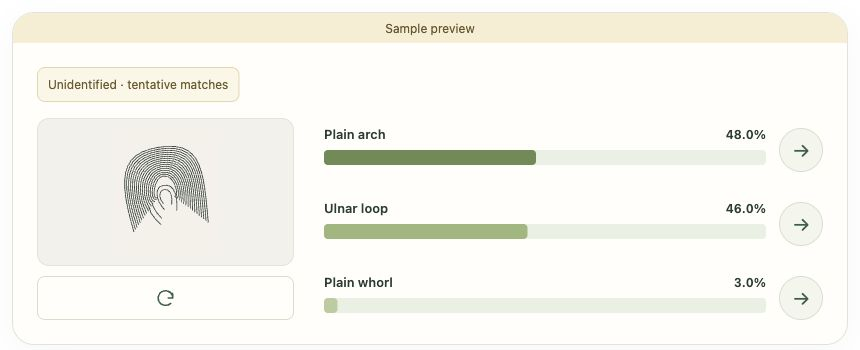
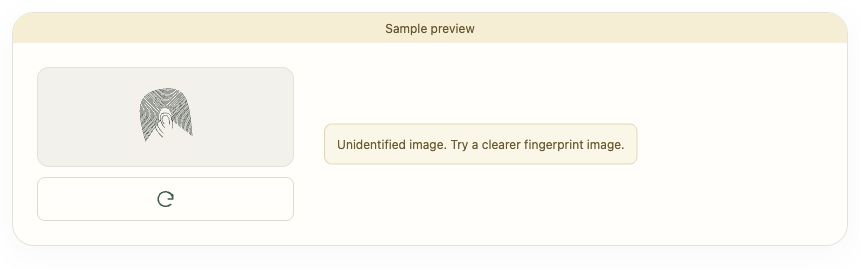
fix: hide predictions and category links for unidentified images

diff --git a/widget.css b/widget.css
@@ -39,7 +39,7 @@ button, a, label { -webkit-tap-highlight-color: transparent; }
 .fingerprint-figure { display: grid; grid-template-rows: minmax(100px, 1fr) 44px; gap: 10px; min-width: 0; margin: 0; }
 .fingerprint-frame { position: relative; min-height: 100px; width: 100%; overflow: hidden; border: 1px solid var(--line); border-radius: 12px; background: #f2f1ea; }
 .preview-image { position: absolute; inset: 10px; display: block; width: calc(100% - 20px); height: calc(100% - 20px); object-fit: contain; border-radius: 4px; }
-.prediction-chart { display: flex; flex-direction: column; min-width: 0; }
+.prediction-chart { display: flex; flex-direction: column; justify-content: center; min-width: 0; }
 .result-list { display: grid; flex: 1; align-content: space-between; gap: 20px; margin: 0; padding: 0; list-style: none; }
 .prediction-row { display: grid; grid-template-columns: minmax(0, 1fr) 44px; align-items: center; gap: 13px; }
 .prediction-info { min-width: 0; }
@@ -53,7 +53,7 @@ button, a, label { -webkit-tap-highlight-color: transparent; }
 .prediction-link { display: inline-flex; align-items: center; justify-content: center; min-width: 44px; min-height: 44px; margin-top: 10px; border: 1px solid #d7dfcd; border-radius: 50%; color: var(--accent); background: #f3f6ec; font-size: 1.25rem; line-height: 1; text-decoration: none; transition: background-color 140ms ease, border-color 140ms ease; }
 .prediction-link:hover { border-color: var(--accent); background: #e2ecd6; }
 .prediction-link.is-unavailable { color: #929a8b; opacity: 0.55; cursor: not-allowed; }
-.uncertainty-message { width: fit-content; max-width: 100%; margin: 0 0 16px; padding: 7px 10px; border: 1px solid #e5d7ae; border-radius: 8px; color: #6d5927; background: #fbf6e7; font-size: 0.75rem; line-height: 1.6; }
+.uncertainty-message { width: fit-content; max-width: 100%; margin: 0; padding: 10px 12px; border: 1px solid #e5d7ae; border-radius: 8px; color: #6d5927; background: #fbf6e7; font-size: 0.75rem; line-height: 1.6; }
 .error-panel button { display: inline-flex; min-height: 44px; align-items: center; justify-content: center; gap: 13px; border: 1px solid #d8ddcf; border-radius: 8px; padding: 10px 14px; color: var(--ink); background: transparent; font-size: 0.73rem; font-weight: 650; line-height: 1.3; text-decoration: none; cursor: pointer; }
 .error-panel button:hover { background: #edf2e7; }
 .error-panel { display: grid; gap: 10px; padding: 16px 24px; border-top: 1px solid #eed5cd; color: var(--danger); background: #fff6f1; font-size: 0.8rem; line-height: 1.6; text-align: center; }

diff --git a/widget.js b/widget.js
@@ -143,16 +143,21 @@ function showUpload() {
 function showResults(predictions) {
   const unidentified = isUnidentified(predictions);
   const sampleDestinations = usesSampleDestinations();
-  elements.resultLabel.textContent = unidentified ? "Unidentified fingerprint" : "Top matches";
-  elements.chartTitle.textContent = `Top ${predictions.length} ${unidentified ? "tentative matches" : "predictions"}`;
+  elements.resultLabel.textContent = unidentified ? "Unidentified image" : "Top matches";
+  elements.chartTitle.textContent = unidentified ? "No confident match" : `Top ${predictions.length} predictions`;
   elements.resultPanel.setAttribute("data-state", unidentified ? "unidentified" : "identified");
   elements.uncertaintyMessage.hidden = !unidentified;
   elements.uncertaintyMessage.textContent = unidentified
-    ? "Unidentified · tentative matches"
+    ? "Unidentified image. Try a clearer fingerprint image."
     : "";
   elements.dropZone.hidden = true;
   elements.resultPanel.hidden = false;
   elements.resultList.replaceChildren();
+  elements.resultList.hidden = unidentified;
+  elements.resultHint.hidden = true;
+  elements.resultHint.textContent = "";
+  elements.anotherImage.hidden = false;
+  if (unidentified) return;
   let hasNavigation = false;
   for (const prediction of predictions) {
     const item = document.createElement("li");
@@ -208,7 +213,6 @@ function showResults(predictions) {
   elements.resultHint.textContent = sampleDestinations
     ? "Sample destinations: each arrow opens a local preview of a fingerprint type page."
     : "Type-page links appear when this widget is embedded on the configured Wix site.";
-  elements.anotherImage.hidden = false;
 }
 
 function resetClassification() {

diff --git a/preview/index.html b/preview/index.html
@@ -28,8 +28,8 @@
     <p>This concept keeps the image, model scores and category links together inside the widget. Open a sample below to explore the proposed result view.</p>
     <nav aria-label="Sample result scenarios">
       <a href="../?model=demo-b&amp;preview=clear"><strong>Clear leading match →</strong><span>76%, 14%, 6% · three horizontal bars</span></a>
-      <a href="../?model=demo-b&amp;preview=close"><strong>Close matches →</strong><span>48%, 46%, 3% · unidentified message</span></a>
-      <a href="../?model=demo-b&amp;preview=diffuse"><strong>No clear pattern →</strong><span>12.5% each · tentative matches</span></a>
+      <a href="../?model=demo-b&amp;preview=close"><strong>Close matches →</strong><span>Close scores · unidentified message, no matches shown</span></a>
+      <a href="../?model=demo-b&amp;preview=diffuse"><strong>No clear pattern →</strong><span>Diffuse scores · unidentified message, no matches shown</span></a>
       <a href="../?model=demo-a&amp;preview=two-class"><strong>Two-class model →</strong><span>68%, 32% · only two bars</span></a>
     </nav>
     <p><a href="../?model=demo-b">Try the actual image classifier →</a></p>

diff --git a/index.html b/index.html
@@ -33,7 +33,6 @@
 
         <section id="result-panel" class="result-panel" aria-labelledby="result-label" aria-live="polite" hidden>
           <h1 id="result-label" class="sr-only">Your closest matches</h1>
-          <p id="uncertainty-message" class="uncertainty-message" hidden></p>
           <div class="result-body">
             <figure class="fingerprint-figure">
               <div class="fingerprint-frame">
@@ -45,6 +44,7 @@
             </figure>
             <div class="prediction-chart">
               <h2 id="chart-title" class="sr-only">Top 3 predictions</h2>
+              <p id="uncertainty-message" class="uncertainty-message" role="status" hidden></p>
               <ol id="result-list" class="result-list" aria-label="Top fingerprint predictions" hidden></ol>
               <p id="result-hint" class="sr-only" hidden>Open this classifier from your published Wix site to explore the fingerprint types.</p>
             </div>

diff --git a/preview/REVIEW.md b/preview/REVIEW.md
@@ -14,7 +14,7 @@ On a published Wix embed, arrows link to the student's category pages instead.
 
 - Does the image-left, probabilities-right layout communicate the result clearly?
 - Are three choices, with an arrow beside each, useful for students?
-- Is the unidentified message clear while still allowing exploration?
+- Is the unidentified retry message clear when matches and category links are hidden?
 - Is a teacher-managed result layout acceptable, with students designing their
   individual Wix category pages? Or should students design the result chart too?
 
@@ -40,7 +40,8 @@ height still require verification in the intended site and browsers.
 The widget uses a minimal layout: upload button and formats, then the image,
 labelled probability bars and category arrows. An icon-only reset spans the image's
 width beneath the shorter preview; the two columns align in height on desktop.
-Unidentified results show a compact status above the chart. Headings and navigation
+Unidentified results replace the chart and category links with a short retry message.
+The image and restart remain available. Headings and navigation
 hints remain available to screen readers without adding visible copy.
 
 ## Screenshots

diff --git a/README.md b/README.md
@@ -86,10 +86,10 @@ positive scores below 0.1% displayed as `<0.1%`.
 
 The initial experimental confidence rule marks the image **Unidentified** if the
 leading score is below **50%**, or the lead over second place is below **15
-percentage points**. Those constants are in `CONFIG` in `widget.js`. The image and
-top matches remain visible with a compact **Unidentified · tentative matches** status.
-Category arrows remain available for comparison. A low-scoring alternative does
-not make a clear 90% leader uncertain.
+percentage points**. Those constants are in `CONFIG` in `widget.js`. Unidentified
+results hide all prediction bars, scores and category arrows. The selected image
+and restart button remain visible beside a short retry message. A low-scoring
+alternative does not make a clear 90% leader uncertain.
 
 These thresholds need validation for the trained model. A high score cannot prove
 that an arbitrary image is a valid fingerprint; this rule handles uncertain scores
